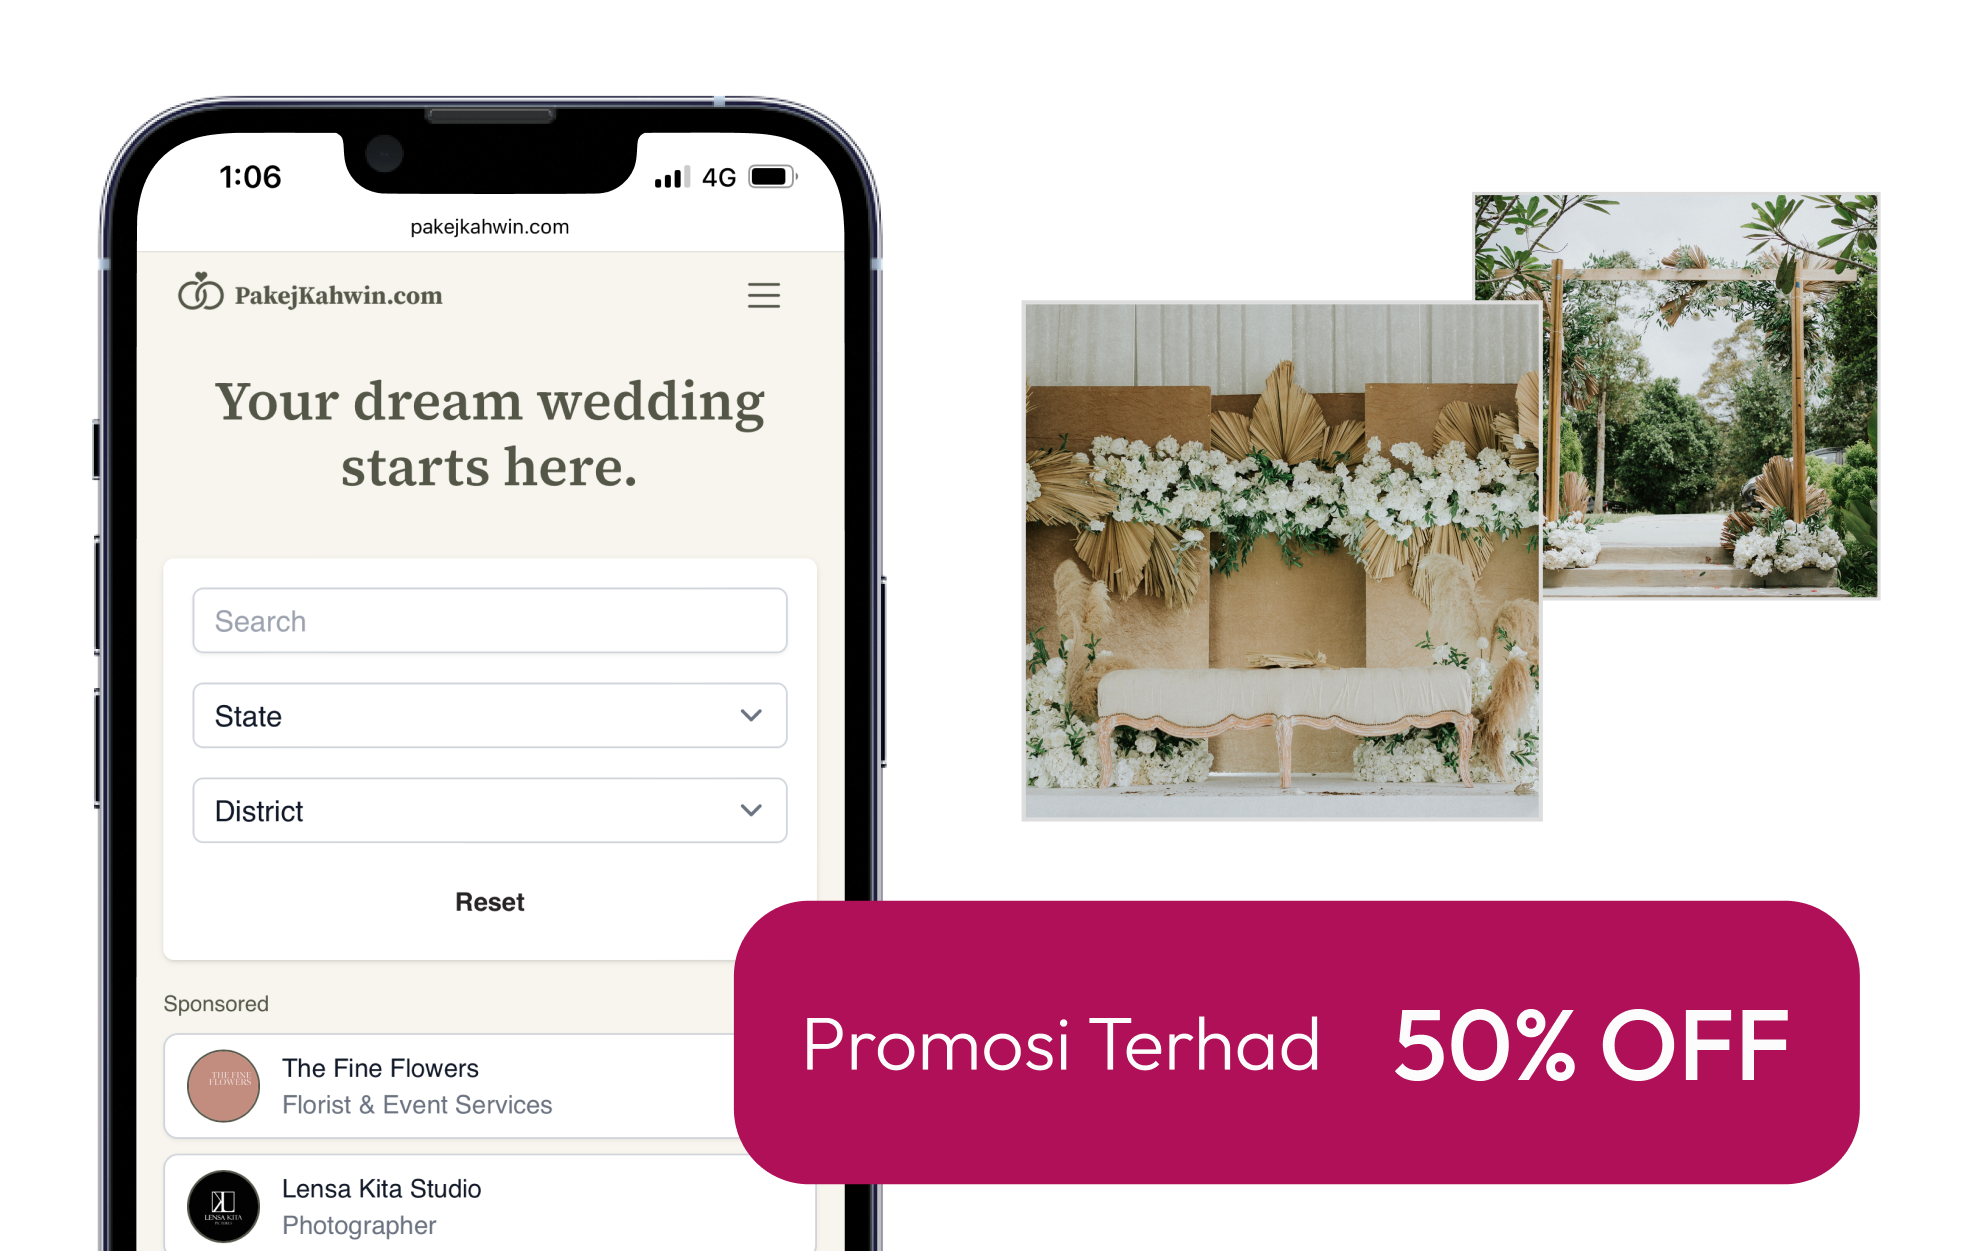
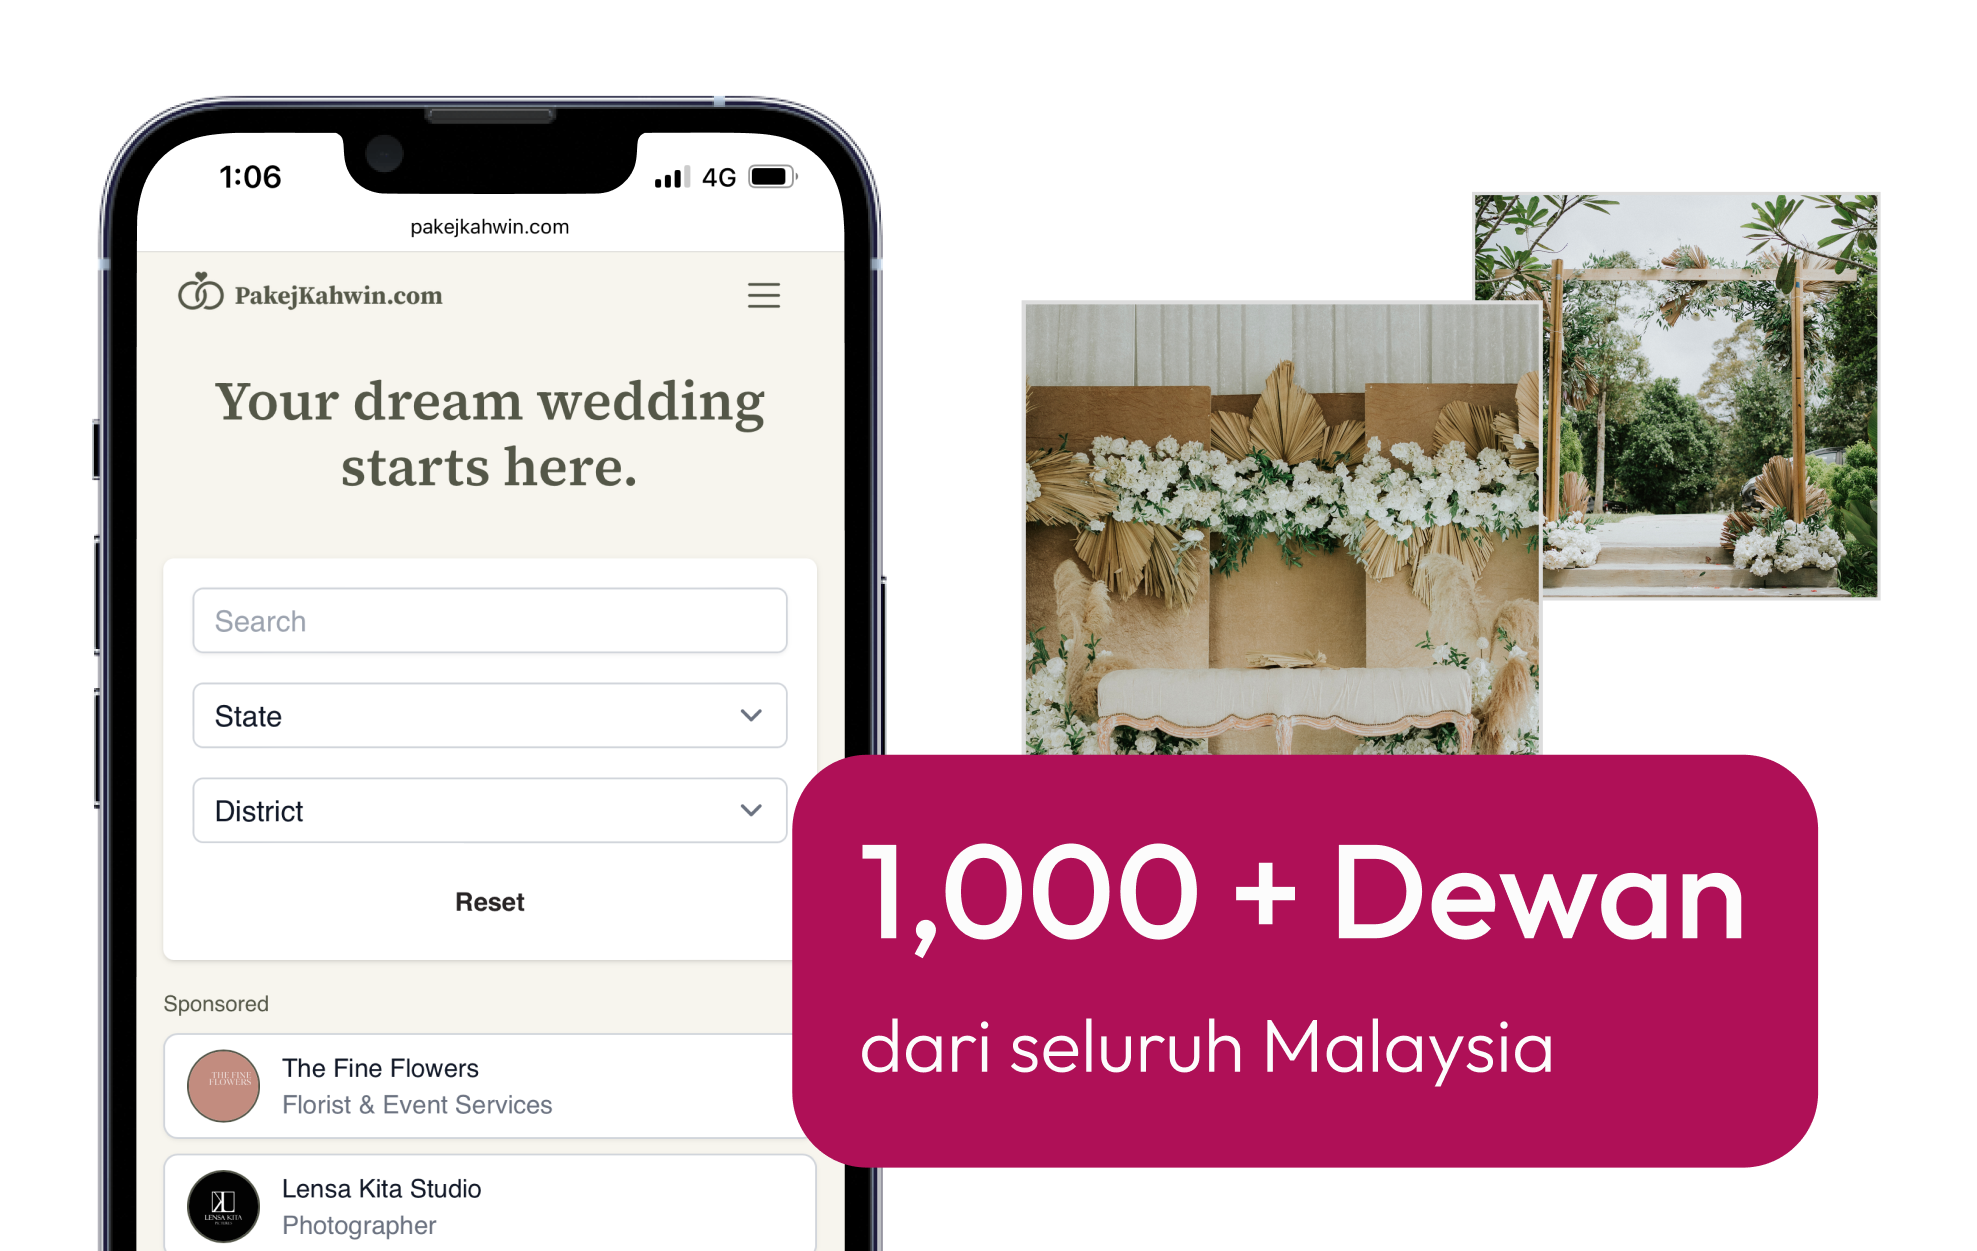
Add new image

Changed region(s): [[0.3703, 0.5923, 0.9565, 0.9664]]

diff --git a/packages/blog-starter-kit/themes/enterprise/pages/index.tsx b/packages/blog-starter-kit/themes/enterprise/pages/index.tsx
@@ -164,7 +164,7 @@ export default function Index({ publication, initialAllPosts, initialPageInfo }:
 							{/* Content Section */}
 								<div className="lg:w-1/2 md:w-full h-full p-8 bg-white border-neutral-200">
 									<div className="text-neutral-500 text-xs font-light font-['Outfit'] uppercase leading-[18px] tracking-[4.80px]">PROMOSI</div>
-									<div className="text-neutral-800 lg:text-3xl text-2xl font-medium font-['Outfit'] leading-9">Promosi PERCUMA Dewan Kahwin oleh pakejkahwin.com</div>
+									<div className="text-neutral-800 lg:text-3xl text-2xl font-medium font-['Outfit'] leading-9">Jom cari Dewan Kahwin korang di pakejkahwin.com</div>
 										<div className="w-fit mt-8 rounded-full px-8 py-4 bg-primary-500 cursor-pointer">
 											<div className="text-center text-white text-base font-medium font-['Outfit'] leading-normal">Lihat Website</div>
 										</div>

diff --git a/packages/blog-starter-kit/themes/enterprise/pages/[slug].tsx b/packages/blog-starter-kit/themes/enterprise/pages/[slug].tsx
@@ -184,7 +184,7 @@ export default function PostOrPage(props: Props) {
 								{/* Content Section */}
 									<div className="lg:w-1/2 md:w-full h-full p-8 bg-white border-neutral-200">
 										<div className="text-neutral-500 text-xs font-light font-['Outfit'] uppercase leading-[18px] tracking-[4.80px]">PROMOSI</div>
-										<div className="text-neutral-800 lg:text-3xl text-2xl font-medium font-['Outfit'] leading-9">Promosi PERCUMA Dewan Kahwin oleh pakejkahwin.com</div>
+										<div className="text-neutral-800 lg:text-3xl text-2xl font-medium font-['Outfit'] leading-9">Jom cari Dewan Kahwin korang di pakejkahwin.com</div>
 											<div className="w-fit mt-8 rounded-full px-8 py-4 bg-primary-500 cursor-pointer">
 												<div className="text-center text-white text-base font-medium font-['Outfit'] leading-normal">Lihat Website</div>
 											</div>
